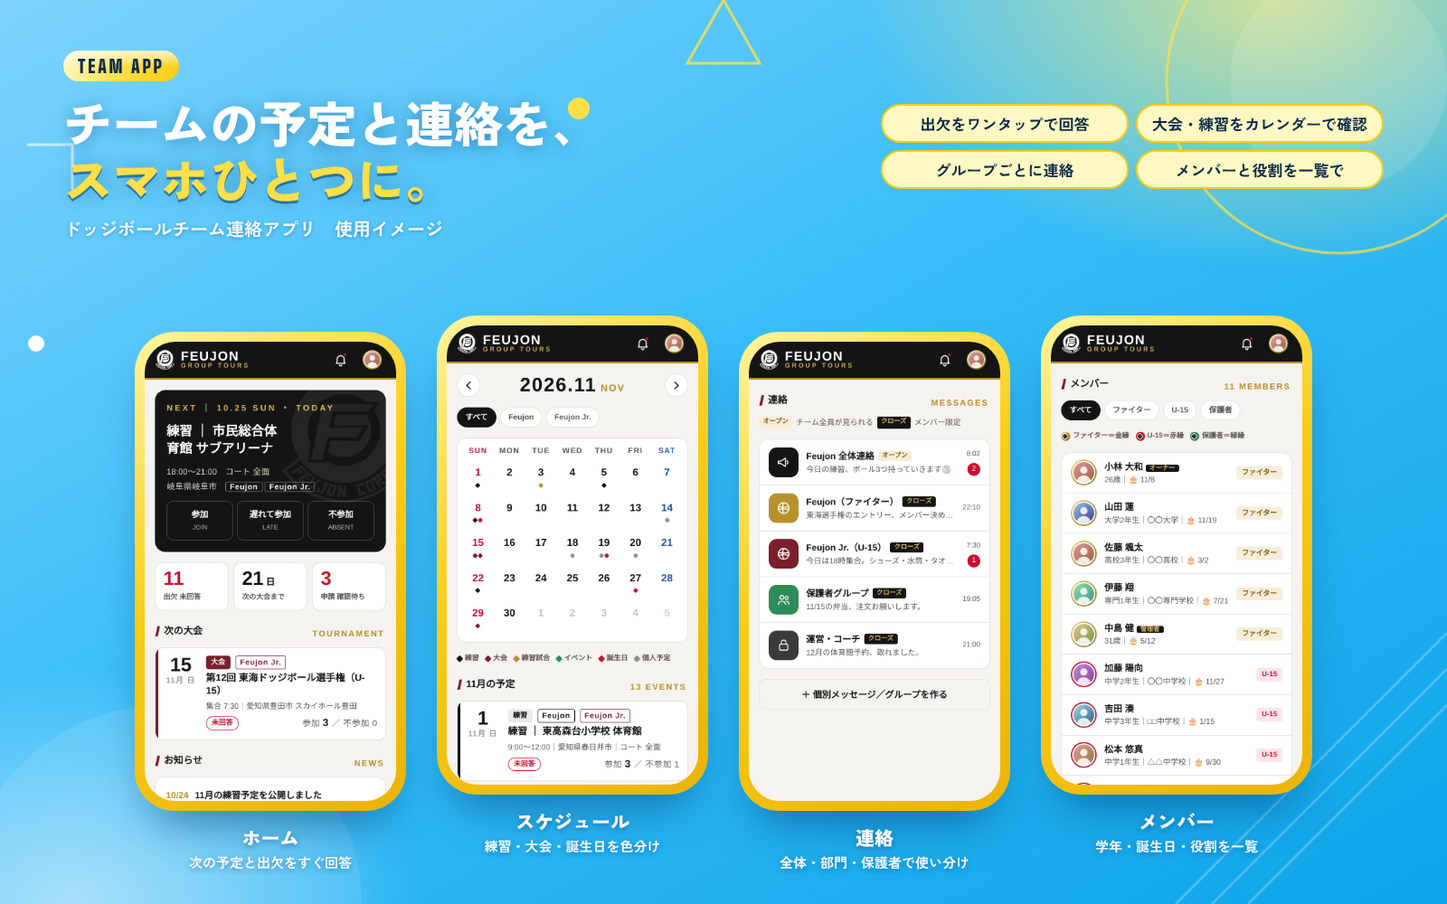
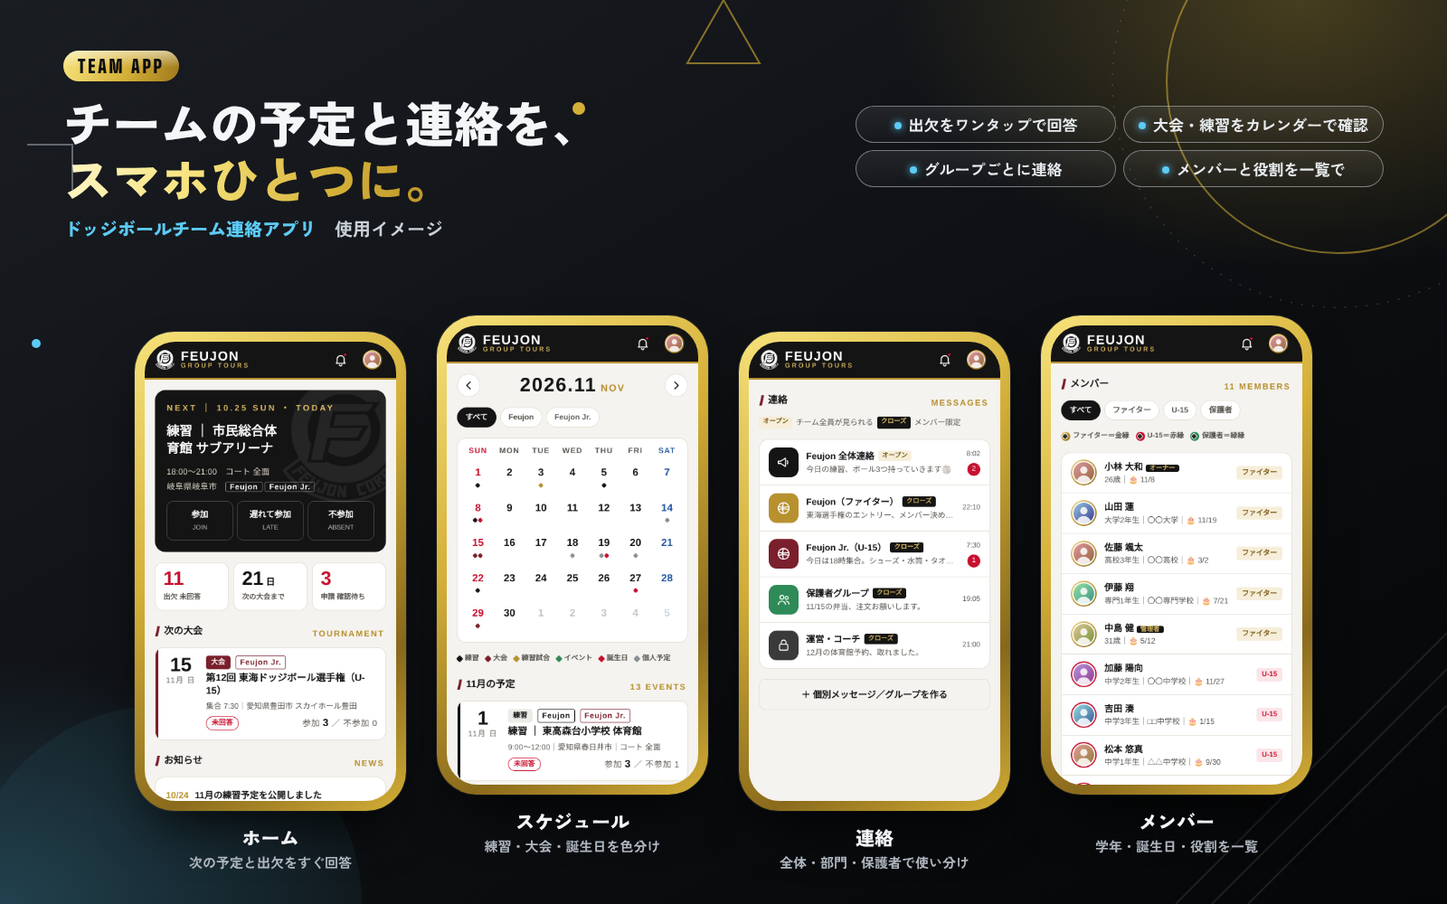
チーム連絡アプリの一式を黒・金・水色・シルバーに変更
Claude-Session: https://claude.ai/code/session_01BNgnZCpr6u7Q7ufoZkFXvR

diff --git a/team-app.html b/team-app.html
@@ -9,18 +9,18 @@
 <link rel="apple-touch-icon" href="/apple-touch-icon.png">
 <link rel="manifest" href="/manifest.json">
 <meta name="apple-mobile-web-app-title" content="HIKARI">
-<meta name="theme-color" content="#0f8a7c">
+<meta name="theme-color" content="#0d0f12">
 <link rel="preconnect" href="https://fonts.googleapis.com">
 <link rel="stylesheet" href="https://fonts.googleapis.com/css2?family=Big+Shoulders+Display:wght@900&family=Zen+Kaku+Gothic+New:wght@500;700;900&family=BIZ+UDPGothic:wght@400;700&display=swap">
 <style>
 
 /* Layout: 乾いたオリーブカーキの地に、幾何学模様を薄く散らす。象牙色のパネルではっきり区切り、詰めた組版で1画面の情報量を増やす */
 :root{
-  --bg1:#3fb8ab; --bg2:#4fc1b5; --bg3:#0e7d70; --tile:#0369a1;
+  --bg1:#3fb8ab; --bg2:#4fc1b5; --bg3:#0e7d70; --tile:#2a2e35;
   --ivory:#ffffff; --card:#ffffff; --ink:#0d2b29; --ink2:#355754; --muted:#6c8784; --hair:#d4ece8;
   --on:#ffffff; --on2:#f1fbf9;
-  --khaki:#0f8a7c; --olive:#0b6b60; --brass:#c9a24a; --gold:#fde047; --rust:#c9a24a; --teal:#0f8a7c; --sky:#bae6fd;
-  --grad:linear-gradient(110deg,#bae6fd 0%,#2cb5a3 30%,#0b8a77 52%,#c9a24a 78%,#f3d98b 100%);
+  --khaki:#0f8a7c; --olive:#0b6b60; --brass:#c9a24a; --gold:#d4af37; --rust:#c9a24a; --teal:#0f8a7c; --sky:#5ccbf5;
+  --grad:linear-gradient(110deg,#5ccbf5 0%,#2cb5a3 30%,#0b8a77 52%,#c9a24a 78%,#f3d98b 100%);
   --grad-soft:linear-gradient(110deg,rgba(129,216,208,.22),rgba(15,138,124,.12),rgba(201,162,74,.16));
   --display:"Big Shoulders Display","Arial Narrow",sans-serif;
   --head:"Zen Kaku Gothic New","Hiragino Sans","Yu Gothic",sans-serif;
@@ -30,82 +30,82 @@
 
 *{box-sizing:border-box}
 html{scroll-behavior:smooth}
-body{margin:0;background:radial-gradient(900px 520px at 85% -5%,rgba(253,224,71,.6),transparent 60%),radial-gradient(700px 420px at 10% 0%,rgba(186,230,253,.7),transparent 65%),linear-gradient(160deg,#7dd3fc 0%,#38bdf8 40%,#0ea5e9 75%,#0284c7 100%) fixed;color:var(--on);font-family:var(--body);font-size:14.5px;line-height:1.55;font-feature-settings:"palt";overflow-x:hidden}
+body{margin:0;background:radial-gradient(900px 520px at 90% -5%,rgba(212,175,55,.24),transparent 60%),radial-gradient(700px 460px at 0% 30%,rgba(92,203,245,.12),transparent 65%),linear-gradient(160deg,#1a1d22 0%,#0d0f12 50%,#050607 100%) fixed;color:#e9edf1;font-family:var(--body);font-size:14.5px;line-height:1.55;font-feature-settings:"palt";overflow-x:hidden}
 img{max-width:100%;height:auto;display:block}
 a{color:inherit}
 h1,h2,h3,p{margin:0}
 .geo{position:fixed;inset:0;z-index:0;pointer-events:none;overflow:hidden}
-.geo::before{content:"";position:absolute;inset:0;background-image:radial-gradient(rgba(255,255,255,.35) 1.2px,transparent 1.4px);background-size:22px 22px;-webkit-mask-image:linear-gradient(180deg,#000,transparent 70%);mask-image:linear-gradient(180deg,#000,transparent 70%)}
+.geo::before{content:"";position:absolute;inset:0;background-image:radial-gradient(rgba(192,199,207,.18) 1.2px,transparent 1.4px);background-size:22px 22px;-webkit-mask-image:linear-gradient(180deg,#000,transparent 70%);mask-image:linear-gradient(180deg,#000,transparent 70%)}
 .geo svg{position:absolute;inset:0;width:100%;height:100%}
 .geo .spin{transform-box:fill-box;transform-origin:center;animation:spin 60s linear infinite}
 .geo .bob{animation:bob 9s ease-in-out infinite alternate}
 @keyframes spin{to{transform:rotate(360deg)}}@keyframes bob{to{transform:translateY(18px)}}
 .wrap{position:relative;z-index:1;max-width:1120px;margin:0 auto;padding-left:max(16px,env(safe-area-inset-left,0px));padding-right:max(16px,env(safe-area-inset-right,0px))}
-header{position:sticky;top:0;z-index:30;background:rgba(2,132,199,.62);backdrop-filter:blur(12px);-webkit-backdrop-filter:blur(12px)}
-header::after{content:"";position:absolute;left:0;right:0;bottom:0;height:2px;background:var(--grad)}
+header{position:sticky;top:0;z-index:30;background:rgba(10,11,14,.78);backdrop-filter:blur(12px);-webkit-backdrop-filter:blur(12px)}
+header::after{content:"";position:absolute;left:0;right:0;bottom:0;height:1.5px;background:linear-gradient(90deg,transparent,#d4af37 30%,#f6e27a 50%,#c0c7cf 70%,transparent)}
 .hin{display:flex;align-items:center;gap:12px;min-height:50px}
 .logo{display:flex;align-items:center;gap:8px;text-decoration:none}
 .logo img{height:30px;width:auto;border-radius:6px}
 .logo span{font-family:var(--display);font-weight:900;font-size:1.2rem;letter-spacing:.03em}
-.logo b{color:var(--gold);margin-left:3px}
-.back{margin-left:auto;font-family:var(--head);font-weight:700;font-size:.82rem;text-decoration:none;padding:5px 12px;border-radius:999px;border:1px solid rgba(255,255,255,.5)}
+.logo b{color:#d4af37;margin-left:3px}
+.back{margin-left:auto;font-family:var(--head);font-weight:700;font-size:.82rem;text-decoration:none;padding:5px 12px;border-radius:999px;border:1px solid rgba(192,199,207,.5);color:#e9edf1}
 .back:hover{background:rgba(255,255,255,.15)}
 
 .hero{display:grid;grid-template-columns:minmax(0,1fr) minmax(0,1.2fr);gap:20px;align-items:center;padding-block:26px 18px}
-.eb{display:inline-block;padding:3px 14px;border-radius:999px;font-family:var(--display);font-weight:900;letter-spacing:.14em;font-size:.95rem;color:#0c2a4a;background:linear-gradient(180deg,rgba(255,255,255,.7),rgba(255,255,255,0) 55%),linear-gradient(100deg,#fef08a,#fde047 50%,#facc15);box-shadow:0 6px 14px -6px rgba(8,80,72,.5)}
-h1{font-family:var(--head);font-weight:900;font-size:clamp(1.8rem,4.2vw,2.9rem);line-height:1.2;margin-top:10px;text-shadow:0 3px 16px rgba(3,60,110,.4)}
-h1 span{color:#fde047;text-shadow:0 3px 0 rgba(3,60,110,.55),0 0 20px rgba(3,60,110,.35)}
-.lead{margin-top:10px;font-size:.92rem;color:#fff;text-shadow:0 1px 3px rgba(3,60,110,.55)}
-.hero-img img{border-radius:16px;box-shadow:0 26px 50px -24px rgba(4,50,45,.8)}
+.eb{display:inline-block;padding:3px 14px;border-radius:999px;font-family:var(--display);font-weight:900;letter-spacing:.14em;font-size:.95rem;color:#0b0c0e;background:linear-gradient(180deg,rgba(255,255,255,.55),rgba(255,255,255,0) 55%),linear-gradient(100deg,#f6e27a,#d4af37 55%,#a07a1c)}
+h1{font-family:var(--head);font-weight:900;font-size:clamp(1.8rem,4.2vw,2.9rem);line-height:1.2;margin-top:10px;color:#f4f6f8}
+h1 span{background:linear-gradient(100deg,#fff6c8,#f6e27a 35%,#d4af37 70%,#b8902a);-webkit-background-clip:text;background-clip:text;color:transparent}
+.lead{margin-top:10px;font-size:.92rem;color:#c9d0d8}
+.hero-img img{border-radius:16px;box-shadow:0 26px 50px -24px rgba(0,0,0,.9),0 0 0 1px rgba(212,175,55,.35)}
 .cta{display:flex;gap:10px;flex-wrap:wrap;margin-top:14px}
-.btn{display:inline-flex;align-items:center;gap:6px;padding:7px 20px;min-height:42px;border-radius:999px;font-family:var(--head);font-weight:900;font-size:.9rem;text-decoration:none;color:#0c2a4a;background:linear-gradient(110deg,#fef08a 0%,#fde047 35%,#facc15 70%,#fef08a 100%);background-size:200% 100%;box-shadow:inset 0 1px 0 rgba(255,255,255,.6),0 8px 18px -8px rgba(6,70,64,.7);transition:background-position .35s}
+.btn{display:inline-flex;align-items:center;gap:6px;padding:7px 20px;min-height:42px;border-radius:999px;font-family:var(--head);font-weight:900;font-size:.9rem;text-decoration:none;color:#0b0c0e;background:linear-gradient(180deg,rgba(255,255,255,.5),rgba(255,255,255,0) 55%),linear-gradient(110deg,#f6e27a,#d4af37 50%,#a07a1c 80%,#f6e27a);background-size:100% 100%,200% 100%;box-shadow:0 8px 20px -8px rgba(212,175,55,.6);transition:background-position .35s}
 .btn:hover{background-position:100% 0}
-.btn.ghost{background:transparent;color:#fff;border:1.5px solid rgba(255,255,255,.7);box-shadow:none}
+.btn.ghost{background:transparent;color:#e9edf1;border:1.5px solid rgba(192,199,207,.6);box-shadow:none}
 
-.panel{position:relative;background:#fff;border-radius:18px;padding:18px;margin-bottom:12px;color:var(--ink);box-shadow:0 18px 40px -24px rgba(6,70,64,.6);overflow:hidden}
-.panel::before{content:"";position:absolute;left:0;right:0;top:0;height:5px;background:linear-gradient(90deg,#38bdf8,#7dd3fc 45%,#fde047 70%,#facc15)}
-h2{font-family:var(--head);font-weight:900;font-size:1.1rem;display:flex;align-items:baseline;gap:8px;flex-wrap:wrap}
-h2 em{font-style:normal;font-family:var(--display);font-size:1.5rem;letter-spacing:.03em;background:linear-gradient(90deg,#0284c7,#38bdf8 55%,#eab308);-webkit-background-clip:text;background-clip:text;color:transparent}
-.sub{font-size:.8rem;color:var(--ink2);margin-top:3px}
+.panel{position:relative;background:linear-gradient(180deg,#191c21,#121418);border:1px solid rgba(192,199,207,.18);border-radius:18px;padding:18px;margin-bottom:12px;color:#e9edf1;box-shadow:0 20px 44px -26px rgba(0,0,0,.9);overflow:hidden}
+.panel::before{content:"";position:absolute;left:0;right:0;top:0;height:2px;background:linear-gradient(90deg,#8a6a1c,#d4af37 25%,#f6e27a 50%,#c0c7cf 75%,#8a6a1c)}
+h2{font-family:var(--head);font-weight:900;font-size:1.1rem;display:flex;align-items:baseline;gap:8px;flex-wrap:wrap;color:#f4f6f8}
+h2 em{font-style:normal;font-family:var(--display);font-size:1.5rem;letter-spacing:.03em;background:linear-gradient(90deg,#f6e27a,#d4af37 55%,#c0c7cf);-webkit-background-clip:text;background-clip:text;color:transparent}
+.sub{font-size:.8rem;color:#aeb6bf;margin-top:3px}
 
 .pains{list-style:none;padding:0;margin:10px 0 0;display:grid;grid-template-columns:repeat(4,minmax(0,1fr));gap:8px}
-.pains li{padding:10px 12px;border-radius:12px;background:#f0f9ff;border:1.5px dashed #7dd3fc;font-size:.82rem;line-height:1.45;color:var(--ink2)}
-.pains li b{display:block;color:var(--ink);font-family:var(--head);font-weight:900;font-size:.88rem;margin-bottom:2px}
-.arrow{text-align:center;font-family:var(--head);font-weight:900;color:#0369a1;margin-top:10px;font-size:.95rem}
-.arrow::before{content:"";display:block;width:0;height:0;margin:0 auto 4px;border:12px solid transparent;border-top:14px solid #facc15;border-bottom:0}
+.pains li{padding:10px 12px;border-radius:12px;background:rgba(255,255,255,.04);border:1px dashed rgba(192,199,207,.4);font-size:.82rem;line-height:1.45;color:#aeb6bf}
+.pains li b{display:block;color:#f4f6f8;font-family:var(--head);font-weight:900;font-size:.88rem;margin-bottom:2px}
+.arrow{text-align:center;font-family:var(--head);font-weight:900;color:#5ccbf5;margin-top:10px;font-size:.95rem}
+.arrow::before{content:"";display:block;width:0;height:0;margin:0 auto 4px;border:12px solid transparent;border-top:14px solid #d4af37;border-bottom:0}
 
 .screens{display:grid;grid-template-columns:repeat(4,minmax(0,1fr));gap:12px;margin-top:12px}
 .scr{display:flex;flex-direction:column;gap:6px;min-width:0}
-.phone{border-radius:26px;padding:7px;background:linear-gradient(145deg,#fff59d,#facc15 45%,#eab308);box-shadow:0 14px 28px -16px rgba(6,70,64,.7)}
+.phone{border-radius:26px;padding:7px;background:linear-gradient(145deg,#f6e27a,#d4af37 40%,#8a6a1c 75%,#d4af37);box-shadow:0 14px 28px -16px rgba(6,70,64,.7)}
 .phone div{border-radius:20px;overflow:hidden;aspect-ratio:390/700;background:#fff}
 .phone img{width:100%}
-.scr b{font-family:var(--head);font-weight:900;font-size:.95rem;color:#0369a1}
-.scr span{font-size:.78rem;color:var(--ink2);line-height:1.45}
+.scr b{font-family:var(--head);font-weight:900;font-size:.95rem;color:#f6e27a}
+.scr span{font-size:.78rem;color:#aeb6bf;line-height:1.45}
 
 .roles{display:grid;grid-template-columns:repeat(3,minmax(0,1fr));gap:10px;margin-top:10px}
-.role{border-radius:14px;padding:12px 14px;border:1.5px solid #bae6fd;border-top:5px solid #facc15;background:#fff}
-.role h3{font-family:var(--head);font-weight:900;font-size:1rem;display:flex;align-items:center;gap:8px}
-.role h3 i{width:26px;height:26px;border-radius:50%;display:grid;place-items:center;font-style:normal;font-size:.8rem;color:#fff;background:linear-gradient(135deg,#38bdf8,#0284c7)}
-.role ul{margin:6px 0 0;padding-left:1.1em;font-size:.82rem;color:var(--ink2);line-height:1.55}
+.role{border-radius:14px;padding:12px 14px;border:1px solid rgba(192,199,207,.25);border-top:2px solid #d4af37;background:rgba(255,255,255,.03)}
+.role h3{font-family:var(--head);font-weight:900;font-size:1rem;display:flex;align-items:center;gap:8px;color:#f4f6f8}
+.role h3 i{width:26px;height:26px;border-radius:50%;display:grid;place-items:center;font-style:normal;font-size:.8rem;color:#fff;background:linear-gradient(135deg,#9fe3fb,#2a9fd0);color:#0b0c0e}
+.role ul{margin:6px 0 0;padding-left:1.1em;font-size:.82rem;color:#aeb6bf;line-height:1.55}
 
 .feats{display:grid;grid-template-columns:repeat(4,minmax(0,1fr));gap:6px;margin-top:10px}
-.feats div{padding:8px 10px;border-radius:10px;border:1.5px solid #bae6fd;border-left:5px solid #facc15;background:#fff;min-width:0}
-.feats b{display:block;font-family:var(--head);font-weight:900;font-size:.84rem}
-.feats span{display:block;font-size:.72rem;color:var(--ink2);line-height:1.4}
+.feats div{padding:8px 10px;border-radius:10px;border:1px solid rgba(192,199,207,.25);border-left:3px solid #5ccbf5;background:rgba(255,255,255,.03);min-width:0}
+.feats b{display:block;font-family:var(--head);font-weight:900;font-size:.84rem;color:#f4f6f8}
+.feats span{display:block;font-size:.72rem;color:#aeb6bf;line-height:1.4}
 
 .flow{list-style:none;padding:0;margin:10px 0 0;display:grid;grid-template-columns:repeat(5,minmax(0,1fr));gap:6px;counter-reset:f}
-.flow li{position:relative;padding:10px 10px 10px;border-radius:12px;background:#fff;border:1px solid var(--hair);counter-increment:f;font-size:.76rem;color:var(--ink2);line-height:1.45}
-.flow li::before{content:counter(f,decimal-leading-zero);display:block;font-family:var(--display);font-weight:900;font-size:1.5rem;line-height:1;background:linear-gradient(90deg,#0284c7,#38bdf8 55%,#eab308);-webkit-background-clip:text;background-clip:text;color:transparent}
-.flow b{display:block;font-family:var(--head);font-weight:900;font-size:.88rem;color:var(--ink)}
+.flow li{position:relative;padding:10px;border-radius:12px;background:rgba(255,255,255,.03);border:1px solid rgba(192,199,207,.25);counter-increment:f;font-size:.76rem;color:#aeb6bf;line-height:1.45}
+.flow li::before{content:counter(f,decimal-leading-zero);display:block;font-family:var(--display);font-weight:900;font-size:1.5rem;line-height:1;background:linear-gradient(90deg,#f6e27a,#d4af37);-webkit-background-clip:text;background-clip:text;color:transparent}
+.flow b{display:block;font-family:var(--head);font-weight:900;font-size:.88rem;color:#f4f6f8}
 
-.faq details{border-top:1px solid var(--hair);padding:9px 2px}
+.faq details{border-top:1px solid rgba(192,199,207,.2);padding:9px 2px}
 .faq details:first-of-type{border-top:0}
-.faq summary{cursor:pointer;font-family:var(--head);font-weight:900;font-size:.9rem;list-style:none;display:flex;gap:8px}
-.faq summary::before{content:"Q";font-family:var(--display);color:#0284c7;font-size:1.1rem;line-height:1.2}
-.faq p{font-size:.82rem;color:var(--ink2);margin:4px 0 0 18px}
+.faq summary{cursor:pointer;font-family:var(--head);font-weight:900;font-size:.9rem;list-style:none;display:flex;gap:8px;color:#f4f6f8}
+.faq summary::before{content:"Q";font-family:var(--display);color:#d4af37;font-size:1.1rem;line-height:1.2}
+.faq p{font-size:.82rem;color:#aeb6bf;margin:4px 0 0 18px}
 .end{text-align:center;padding:18px 18px 22px}
-.end p{font-size:.86rem;color:var(--ink2);margin:6px 0 12px}
-footer{position:relative;z-index:1;text-align:center;font-size:.75rem;color:var(--on2);padding-block:6px 26px}
+.end p{font-size:.86rem;color:#aeb6bf;margin:6px 0 12px}
+footer{position:relative;z-index:1;text-align:center;font-size:.75rem;color:#8a929b;padding-block:6px 26px}
 @media (max-width:900px){.hero{grid-template-columns:minmax(0,1fr)}.pains,.feats{grid-template-columns:repeat(2,minmax(0,1fr))}.screens{grid-template-columns:repeat(2,minmax(0,1fr))}.roles{grid-template-columns:minmax(0,1fr)}.flow{grid-template-columns:repeat(2,minmax(0,1fr))}}
 @media (prefers-reduced-motion:reduce){html{scroll-behavior:auto}.geo .spin,.geo .bob{animation:none}}
 </style>
@@ -113,24 +113,24 @@ footer{position:relative;z-index:1;text-align:center;font-size:.75rem;color:var(
 <body>
 <div class="geo" aria-hidden="true"><svg viewBox="0 0 1440 1000" preserveAspectRatio="xMidYMid slice" fill="none">
   <defs><linearGradient id="gg" x1="0" x2="1"><stop offset="0" stop-color="#fff6d2"/><stop offset="1" stop-color="#e3b85a"/></linearGradient>
-  <pattern id="dia" width="14" height="14" patternUnits="userSpaceOnUse" patternTransform="rotate(45)"><path d="M0 0v14" stroke="#ffffff" stroke-opacity=".35" stroke-width="2"/></pattern></defs>
+  <pattern id="dia" width="14" height="14" patternUnits="userSpaceOnUse" patternTransform="rotate(45)"><path d="M0 0v14" stroke="#c0c7cf" stroke-opacity=".35" stroke-width="2"/></pattern></defs>
   <circle cx="1250" cy="110" r="170" stroke="url(#gg)" stroke-opacity=".8" stroke-width="2.5"/>
   <circle cx="1250" cy="110" r="112" fill="#ffffff" fill-opacity=".14"/>
-  <circle cx="1250" cy="110" r="230" stroke="#ffffff" stroke-opacity=".25" stroke-dasharray="2 9" stroke-width="2"/>
-  <g class="spin"><path d="M1060 380 l78 -135 l78 135 z" stroke="#fde047" stroke-opacity=".8" stroke-width="2.5"/></g>
+  <circle cx="1250" cy="110" r="230" stroke="#c0c7cf" stroke-opacity=".25" stroke-dasharray="2 9" stroke-width="2"/>
+  <g class="spin"><path d="M1060 380 l78 -135 l78 135 z" stroke="#d4af37" stroke-opacity=".8" stroke-width="2.5"/></g>
   <rect x="60" y="500" width="170" height="170" rx="10" transform="rotate(18 145 585)" fill="url(#dia)"/>
-  <rect x="60" y="500" width="170" height="170" rx="10" transform="rotate(18 145 585)" stroke="#ffffff" stroke-opacity=".5" stroke-width="2"/>
-  <path d="M-40 230 a180 180 0 0 1 360 0 z" fill="#bae6fd" fill-opacity=".25"/>
-  <path d="M-40 230 a120 120 0 0 1 240 0" stroke="#ffffff" stroke-opacity=".5" stroke-width="2"/>
-  <g class="bob"><circle cx="370" cy="130" r="14" fill="url(#gg)"/><circle cx="1340" cy="560" r="10" fill="#ffffff" fill-opacity=".9"/><circle cx="640" cy="890" r="12" fill="#fde047"/><rect x="930" y="600" width="18" height="18" transform="rotate(45 939 609)" fill="#ffffff" fill-opacity=".8"/></g>
-  <g stroke="#ffffff" stroke-opacity=".28" stroke-width="2"><path d="M1170 770 l230 -230"/><path d="M1200 800 l230 -230"/><path d="M1230 830 l230 -230"/><path d="M1260 860 l230 -230"/></g>
-  <path d="M520 40 l44 0 l0 44" stroke="#fde047" stroke-opacity=".85" stroke-width="2.5"/>
-  <path d="M880 960 q60 -80 120 0 t120 0 t120 0" stroke="#ffffff" stroke-opacity=".55" stroke-width="2.5"/>
-  <g class="spin"><path d="M300 860 l20 -35 l40 0 l20 35 l-20 35 l-40 0 z" stroke="#fde047" stroke-opacity=".8" stroke-width="2"/></g>
-  <g stroke="#ffffff" stroke-opacity=".55" stroke-width="2.5"><path d="M760 120 l16 0 M768 112 l0 16"/><path d="M180 380 l14 0 M187 373 l0 14"/><path d="M1380 360 l14 0 M1387 353 l0 14"/></g>
-  <circle cx="820" cy="430" r="240" stroke="#ffffff" stroke-opacity=".14" stroke-width="1.5" stroke-dasharray="4 10"/>
-  <path d="M1000 690 l120 0 l-60 -104 z" fill="#0369a1" fill-opacity=".18"/>
-  <circle cx="460" cy="620" r="70" fill="#fde047" fill-opacity=".12" stroke="#fde047" stroke-opacity=".4" stroke-width="1.5"/>
+  <rect x="60" y="500" width="170" height="170" rx="10" transform="rotate(18 145 585)" stroke="#c0c7cf" stroke-opacity=".5" stroke-width="2"/>
+  <path d="M-40 230 a180 180 0 0 1 360 0 z" fill="#5ccbf5" fill-opacity=".25"/>
+  <path d="M-40 230 a120 120 0 0 1 240 0" stroke="#c0c7cf" stroke-opacity=".5" stroke-width="2"/>
+  <g class="bob"><circle cx="370" cy="130" r="14" fill="url(#gg)"/><circle cx="1340" cy="560" r="10" fill="#ffffff" fill-opacity=".9"/><circle cx="640" cy="890" r="12" fill="#d4af37"/><rect x="930" y="600" width="18" height="18" transform="rotate(45 939 609)" fill="#ffffff" fill-opacity=".8"/></g>
+  <g stroke="#c0c7cf" stroke-opacity=".28" stroke-width="2"><path d="M1170 770 l230 -230"/><path d="M1200 800 l230 -230"/><path d="M1230 830 l230 -230"/><path d="M1260 860 l230 -230"/></g>
+  <path d="M520 40 l44 0 l0 44" stroke="#d4af37" stroke-opacity=".85" stroke-width="2.5"/>
+  <path d="M880 960 q60 -80 120 0 t120 0 t120 0" stroke="#c0c7cf" stroke-opacity=".55" stroke-width="2.5"/>
+  <g class="spin"><path d="M300 860 l20 -35 l40 0 l20 35 l-20 35 l-40 0 z" stroke="#d4af37" stroke-opacity=".8" stroke-width="2"/></g>
+  <g stroke="#c0c7cf" stroke-opacity=".55" stroke-width="2.5"><path d="M760 120 l16 0 M768 112 l0 16"/><path d="M180 380 l14 0 M187 373 l0 14"/><path d="M1380 360 l14 0 M1387 353 l0 14"/></g>
+  <circle cx="820" cy="430" r="240" stroke="#c0c7cf" stroke-opacity=".14" stroke-width="1.5" stroke-dasharray="4 10"/>
+  <path d="M1000 690 l120 0 l-60 -104 z" fill="#2a2e35" fill-opacity=".18"/>
+  <circle cx="460" cy="620" r="70" fill="#d4af37" fill-opacity=".12" stroke="#d4af37" stroke-opacity=".4" stroke-width="1.5"/>
 </svg></div>
 <header><div class="wrap hin">
   <a class="logo" href="index.html"><img src="logo.png" alt=""><span>HIKARI<b>PARTNERS</b></span></a>

diff --git a/index.html b/index.html
@@ -145,19 +145,19 @@ h2 em{font-style:normal;font-family:var(--display);font-size:1.4rem;letter-spaci
 .only{font-size:.62rem;min-height:22px;padding:0 8px}
 .thumb .ph b{font-size:.72rem}
 }
-.feat{position:relative;display:grid;grid-template-columns:minmax(0,1.15fr) minmax(0,1fr);gap:18px;align-items:center;margin-bottom:14px;padding:16px;border-radius:22px;color:var(--ink);background:radial-gradient(500px 260px at 100% 0%,rgba(253,224,71,.28),transparent 70%),linear-gradient(160deg,#f0f9ff,#ffffff 55%,#fefce8) padding-box,linear-gradient(120deg,#38bdf8,#7dd3fc 40%,#fde047 70%,#facc15) border-box;border:3px solid transparent;box-shadow:0 24px 50px -24px rgba(3,60,110,.55)}
-.feat::before{content:"PICK UP";position:absolute;left:18px;top:-14px;padding:3px 14px;border-radius:999px;font-family:var(--display);font-weight:900;font-size:.95rem;letter-spacing:.14em;color:#0c2a4a;background:linear-gradient(180deg,rgba(255,255,255,.7),rgba(255,255,255,0) 55%),linear-gradient(100deg,#fef08a,#fde047 50%,#facc15);box-shadow:0 6px 14px -6px rgba(161,98,7,.55)}
+.feat{position:relative;display:grid;grid-template-columns:minmax(0,1.15fr) minmax(0,1fr);gap:18px;align-items:center;margin-bottom:14px;padding:16px;border-radius:22px;color:#e9edf1;background:radial-gradient(520px 280px at 100% 0%,rgba(212,175,55,.22),transparent 70%),radial-gradient(420px 260px at 0% 100%,rgba(92,203,245,.14),transparent 70%),linear-gradient(150deg,#1a1d22,#0d0f12 60%,#060708) padding-box,linear-gradient(120deg,#f6e27a,#d4af37 30%,#8a6a1c 50%,#c0c7cf 75%,#f1f3f5) border-box;border:2px solid transparent;box-shadow:0 28px 56px -26px rgba(0,0,0,.85)}
+.feat::before{content:"PICK UP";position:absolute;left:18px;top:-14px;padding:3px 14px;border-radius:999px;font-family:var(--display);font-weight:900;font-size:.95rem;letter-spacing:.14em;color:#0b0c0e;background:linear-gradient(180deg,rgba(255,255,255,.55),rgba(255,255,255,0) 55%),linear-gradient(100deg,#f6e27a,#d4af37 55%,#a07a1c);box-shadow:0 6px 16px -6px rgba(0,0,0,.6)}
 .feat-img img{display:block;width:100%;height:auto;border-radius:14px;box-shadow:0 14px 30px -18px rgba(6,70,64,.8)}
-.badge{display:inline-block;font-family:var(--head);font-weight:900;font-size:.72rem;padding:2px 10px;border-radius:999px;color:#fff;background:linear-gradient(100deg,#0284c7,#38bdf8)}
-.feat-h{color:#0c2a4a;font-family:var(--head);font-weight:900;font-size:clamp(1.25rem,2.4vw,1.7rem);line-height:1.25;margin-top:6px;letter-spacing:-.01em}
-.feat-lead{font-size:.84rem;color:var(--ink2);line-height:1.55;margin-top:6px}
+.badge{display:inline-block;font-family:var(--head);font-weight:900;font-size:.72rem;padding:2px 10px;border-radius:999px;color:#0b0c0e;background:linear-gradient(100deg,#9fe3fb,#5ccbf5)}
+.feat-h{background:linear-gradient(100deg,#fff6c8,#f6e27a 35%,#d4af37 75%);-webkit-background-clip:text;background-clip:text;color:transparent;font-family:var(--head);font-weight:900;font-size:clamp(1.25rem,2.4vw,1.7rem);line-height:1.25;margin-top:6px;letter-spacing:-.01em}
+.feat-lead{font-size:.84rem;color:#c9d0d8;line-height:1.55;margin-top:6px}
 .merits{list-style:none;padding:0;margin:10px 0 0;display:grid;grid-template-columns:1fr 1fr;gap:6px}
-.merits li{padding:7px 10px;border-radius:10px;background:#fff;border:1.5px solid #bae6fd;border-left:5px solid #facc15}
-.merits b{display:block;font-family:var(--head);font-weight:900;font-size:.84rem;color:#0369a1}
-.merits span{display:block;font-size:.72rem;color:var(--ink2);line-height:1.4}
+.merits li{padding:7px 10px;border-radius:10px;background:linear-gradient(180deg,rgba(255,255,255,.07),rgba(255,255,255,.02));border:1px solid rgba(192,199,207,.35);border-left:3px solid #d4af37}
+.merits b{display:block;font-family:var(--head);font-weight:900;font-size:.84rem;color:#5ccbf5}
+.merits span{display:block;font-size:.72rem;color:#aeb6bf;line-height:1.4}
 .feat-cta{display:flex;align-items:center;gap:12px;flex-wrap:wrap;margin-top:12px}
-.btn.big{font-size:.9rem!important;padding:7px 22px!important;min-height:42px!important;color:#0c2a4a!important;background:linear-gradient(180deg,rgba(255,255,255,.55),rgba(255,255,255,0) 55%),linear-gradient(100deg,#fde047,#facc15 55%,#fbbf24)!important;box-shadow:0 8px 18px -8px rgba(161,98,7,.7)!important}
-.note2{font-size:.72rem;color:var(--muted)}
+.btn.big{font-size:.9rem!important;padding:7px 22px!important;min-height:42px!important;color:#0b0c0e!important;background:linear-gradient(180deg,rgba(255,255,255,.5),rgba(255,255,255,0) 55%),linear-gradient(100deg,#f6e27a,#d4af37 55%,#a07a1c)!important;box-shadow:0 8px 20px -8px rgba(212,175,55,.6)!important}
+.note2{font-size:.72rem;color:#aeb6bf}
 @media (max-width:860px){.feat{grid-template-columns:minmax(0,1fr)}}
 @media (max-width:420px){.merits{grid-template-columns:minmax(0,1fr)}}
 .can div{display:flow-root}
